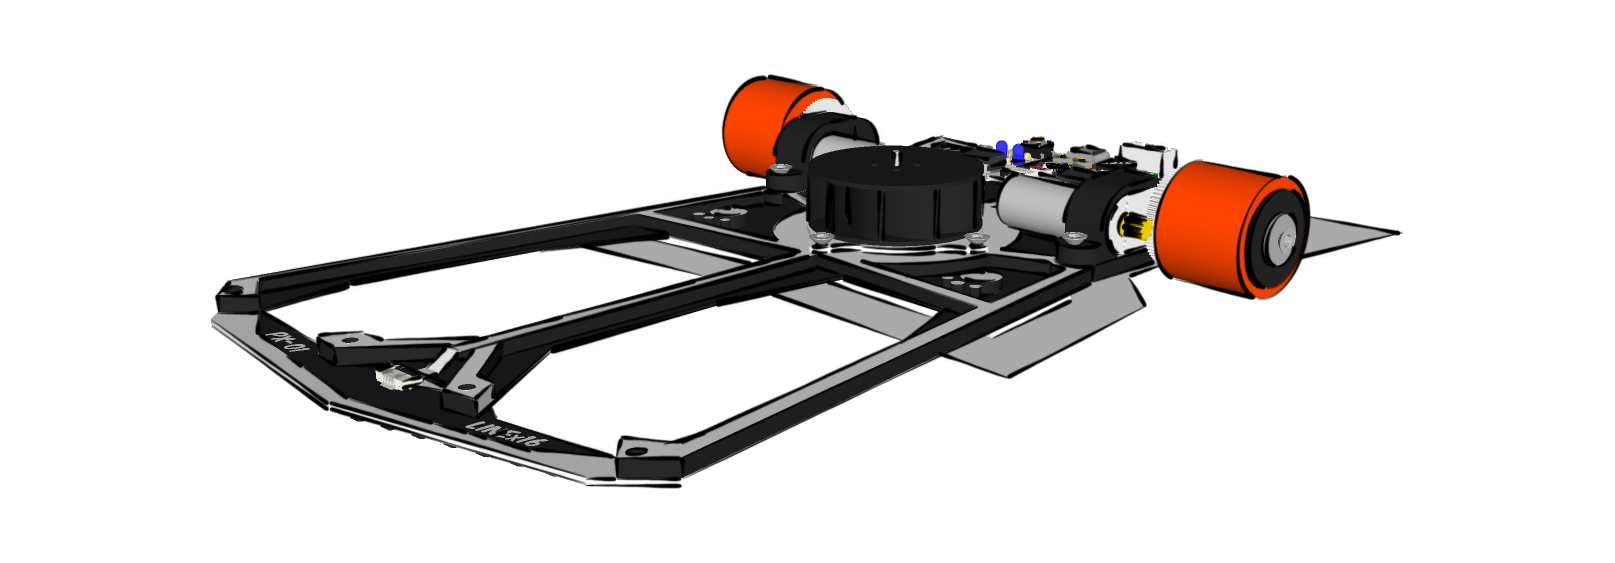
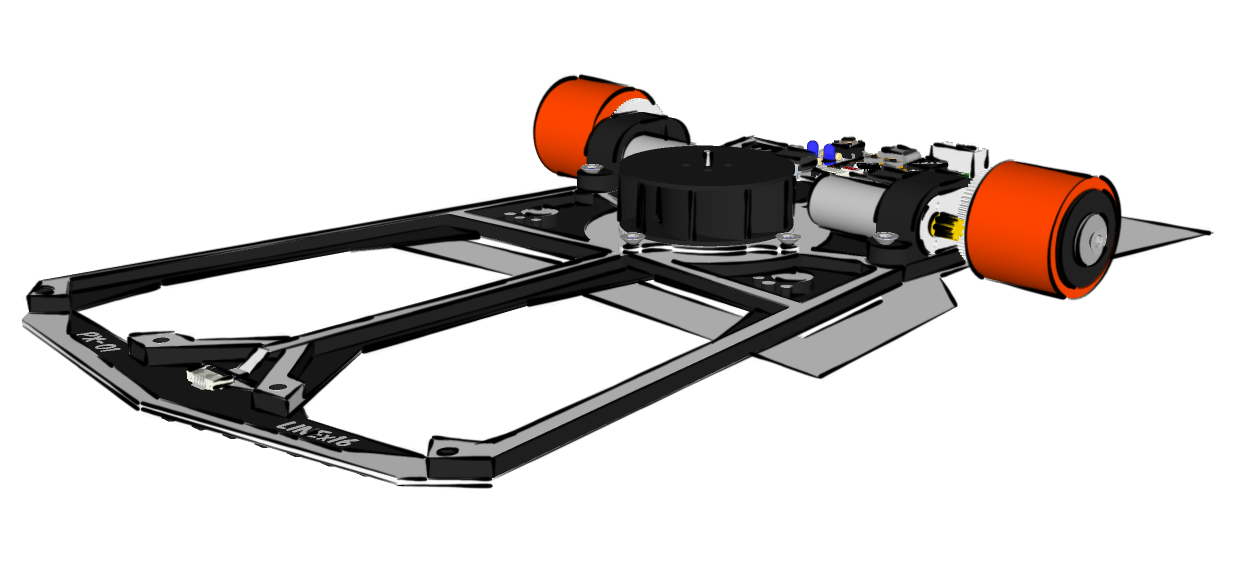
Mejora la visualización de las imágenes de tienda

Changed region(s): [[0.0, 0.1208, 0.9854, 0.8757]]

diff --git a/index.html b/index.html
@@ -199,7 +199,7 @@
                                 <div class="card m-0" style="overflow: hidden;">
                                     <div class="card-body p-0 img-hover-zoom" style="height: 450px;">
                                         <a href="./tienda/modulos/px-core">
-                                            <img src="/assets/img/tienda/modulos/px-core/px-core_01.png" style="aspect-ratio: 1;object-fit: cover;" class="w-100 h-100" alt="">
+                                            <img src="/assets/img/tienda/modulos/px-core/px-core_01.png" style="aspect-ratio: 1;object-fit: contain;" class="w-100 h-100" alt="">
                                             <div class="card-img-overlay p-2" style="display: flex;align-items: start;justify-content: center;">
                                                 <h4 class="card-title m-0">Una PCB para todo</h4>
                                             </div>
@@ -211,7 +211,7 @@
                                 <div class="card m-0" style="overflow: hidden;">
                                     <div class="card-body p-0 img-hover-zoom" style="height: 450px;">
                                         <a href="./tienda/kits/px-01">
-                                            <img src="/assets/img/px_01_store.png" style="aspect-ratio: 1;object-fit: cover;" class="w-100 h-100" alt="">
+                                            <img src="/assets/img/px_01_store.png" style="aspect-ratio: 1;object-fit: contain;" class="w-100 h-100" alt="">
                                             <div class="card-img-overlay p-2" style="display: flex;align-items: start;justify-content: center;">
                                                 <h4 class="card-title m-0">Kits de robots competitivos</h4>
                                             </div>
@@ -225,7 +225,7 @@
                                 <div class="card m-0" style="overflow: hidden;">
                                     <div class="card-body p-0 img-hover-zoom" style="height: 450px;">
                                         <a href="https://github.com/OPRobots" target="_blank">
-                                            <img src="/assets/img/opr_github.png" style="aspect-ratio: 1;object-fit: cover;" class="w-100 h-100" alt="">
+                                            <img src="/assets/img/opr_github.png" style="aspect-ratio: 1;object-fit: contain;" class="w-100 h-100" alt="">
                                             <div class="card-img-overlay p-2" style="display: flex;align-items: start;justify-content: center;">
                                                 <h4 class="card-title m-0">Software y Hardware siempre abiertos</h4>
                                             </div>
